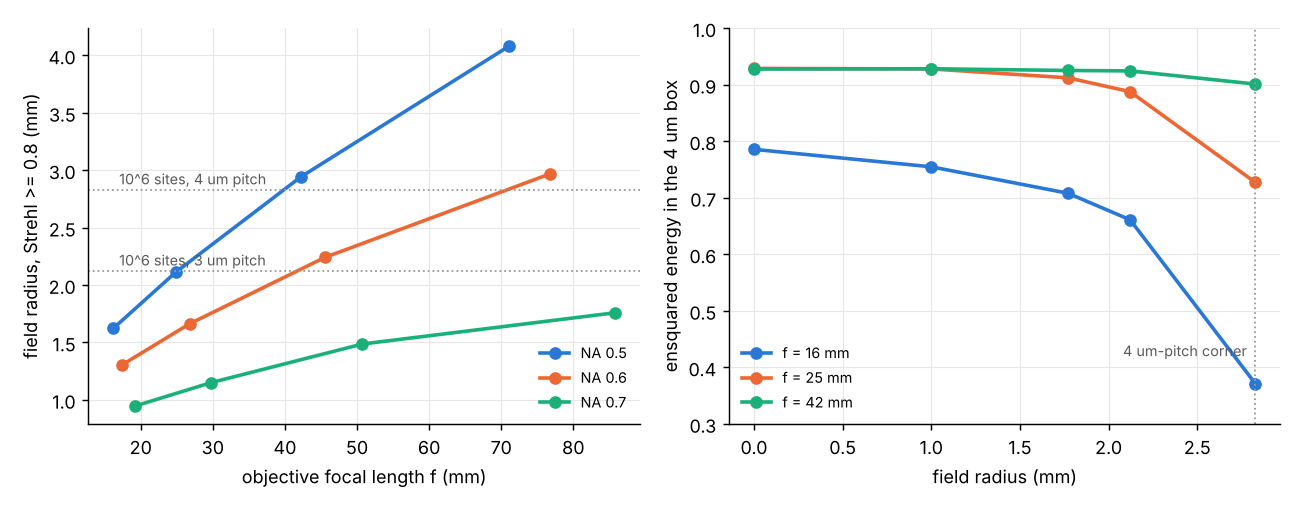
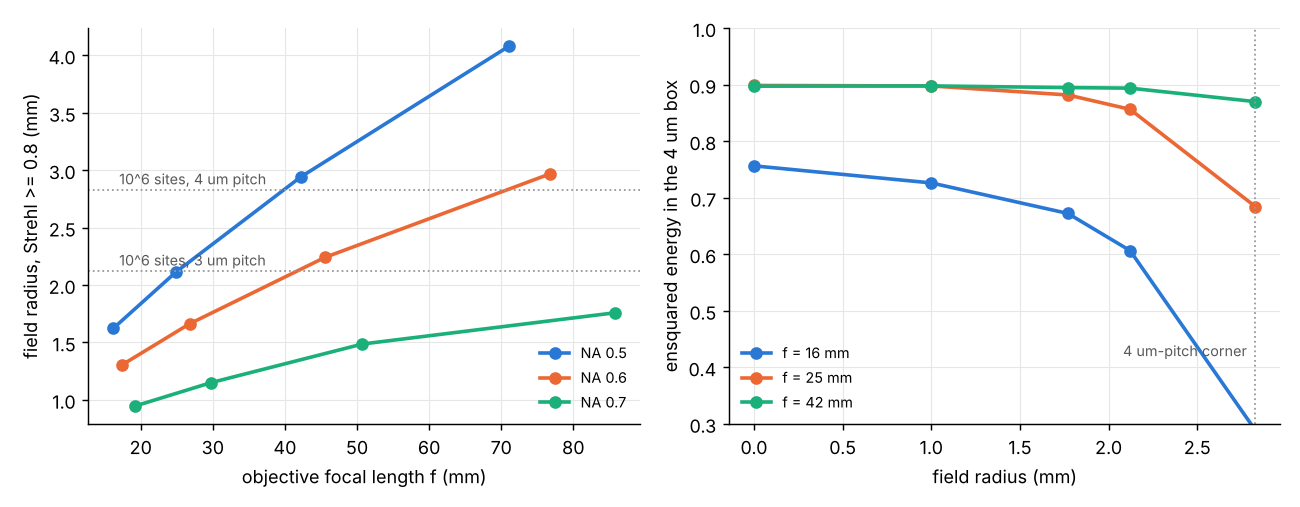
Million report: 4 um imaging table, summary and Figure 1 rerun with total-power normalisation
42 mm objective: EE >= 0.87 / <= 3.4 % over the 10^6-site field (diffraction limit of the
pupil 0.90 / 1.3 %); the earlier >= 0.90 / <= 3.6 % used window normalisation.

Claude-Session: https://claude.ai/code/session_013HRuYi94EB9cHXa1UrtoSF

Changed region(s): [[0.5538, 0.2663, 0.9846, 0.7988], [0.5538, 0.1183, 0.9846, 0.4142], [0.9538, 0.7988, 0.9846, 0.8284]]

diff --git a/docs/million_sites.md b/docs/million_sites.md
@@ -26,12 +26,12 @@ extra deflections: <= 0.15 with a 25 mm objective and 10x demagnification.
 
 (ii) Imaging. For one common focal plane with Strehl >= 0.8 out to the 4 um-pitch corner, the
 aplanatic meta-doublet needs f ~ 42 mm at NA 0.5 (42 mm plates). In wave optics it then puts
->= 0.90 of each atom's light in its 4 um box with <= 3.6 % in any neighbour, across the whole
-10^6-site array. At 3 um pitch f ~ 25 mm suffices: EE >= 0.82 and <= 4.9 % in a neighbour at
+>= 0.87 of each atom's light in its 4 um box with <= 3.4 % in any neighbour, across the whole
+10^6-site array (diffraction limit of this pupil 0.90 / 1.3 %). At 3 um pitch f ~ 25 mm suffices: EE >= 0.82 and <= 4.9 % in a neighbour at
 the 2.12 mm corner (42 mm: 0.864 / 2.5 %; diffraction limit 0.876 / 1.5 %). Higher NA costs
 field quickly: NA 0.6 needs f ~ 77 mm (92 mm plates) for the same field, and NA 0.7 does not
-reach it below 120 mm. The 16 mm doublet images to ~2.1 mm radius (66 % of the light in the
-site box) and fails at 2.83 mm (37 %).
+reach it below 120 mm. The 16 mm doublet images to ~2.1 mm radius (61 % of the light in the
+site box, with a plane fitted over 0 to 2.83 mm) and fails at 2.83 mm (29 %).
 
 (iii) One optic for 10 to 10^6 traps. A direct (pupil-plane) hologram cannot do this.
 Shrinking the beam on it reduces the NA, not the number of sites. The lenslet-array
@@ -51,7 +51,7 @@ Figure 1. Left: field radius with a minimum common-plane Strehl ratio >= 0.8 for
 aplanatic meta-objective (852.3 nm, cell stack with air gap 2.5 to 50 mm, construction to 1.6 R1)
 versus focal length, at NA 0.5, 0.6 and 0.7; the dotted lines mark the 10^6-site corners. Right:
 ensquared energy in the 4 um site box (wave optics, one common plane over 0 to 2.83 mm) for the
-16, 25 and 42 mm objectives at NA 0.5; a diffraction-limited spot gives 0.93.
+16, 25 and 42 mm objectives at NA 0.5, relative to the total PSF power; the diffraction limit of this pupil is 0.90.
 
 ## 1. Requirements
 
@@ -104,15 +104,15 @@ compute the ensquared energy (EE) in the 4 um box and the largest neighbour-box 
 from the wave-optics PSF (superposition method, Section 4b of the metalens report), in one
 common plane over the whole field (results/million/imaging_ee.json).
 
-Entries: ensquared energy in the 4 um box / largest neighbour-box fraction (ray Strehl in the common plane). A diffraction-limited NA 0.5 spot gives 0.93 / 0.014 on this grid.
+Entries: ensquared energy in the 4 um box / largest neighbour-box fraction, both relative to the total PSF power (wave_offaxis.total_focal_power), with the ray Strehl ratio in the common plane. The diffraction limit of this aplanatic pupil is 0.90 / 0.013 (a uniformly filled Airy pupil gives 0.92). (A first version normalised to the power inside the +/-1.5 pitch evaluation window, which holds only 0.94 to 0.97 of it, and quoted values 0.03 to 0.08 higher.)
 
 | Objective f | 0 mm | 1 mm | 1.77 mm | 2.121 mm | 2.828 mm |
 |---|---|---|---|---|---|
-| 16 mm (gap 2.5 mm) | 0.79 / 0.045 (S 0.17) | 0.75 / 0.063 (S 0.15) | 0.71 / 0.087 (S 0.11) | 0.66 / 0.073 (S 0.09) | 0.37 / 0.242 (S 0.08) |
-| 25 mm (gap 10 mm) | 0.93 / 0.014 (S 1.00) | 0.93 / 0.016 (S 1.00) | 0.91 / 0.030 (S 0.92) | 0.89 / 0.043 (S 0.79) | 0.73 / 0.082 (S 0.30) |
-| 42 mm (gap 25 mm) | 0.93 / 0.014 (S 0.99) | 0.93 / 0.015 (S 0.99) | 0.93 / 0.019 (S 0.98) | 0.92 / 0.021 (S 0.96) | 0.90 / 0.036 (S 0.84) |
+| 16 mm (gap 2.5 mm) | 0.76 / 0.043 (S 0.17) | 0.73 / 0.060 (S 0.15) | 0.67 / 0.083 (S 0.11) | 0.61 / 0.067 (S 0.09) | 0.29 / 0.188 (S 0.08) |
+| 25 mm (gap 10 mm) | 0.90 / 0.013 (S 1.00) | 0.90 / 0.016 (S 1.00) | 0.88 / 0.029 (S 0.92) | 0.86 / 0.042 (S 0.79) | 0.68 / 0.077 (S 0.30) |
+| 42 mm (gap 25 mm) | 0.90 / 0.013 (S 0.99) | 0.90 / 0.014 (S 0.99) | 0.90 / 0.019 (S 0.98) | 0.89 / 0.020 (S 0.96) | 0.87 / 0.034 (S 0.84) |
 
-Hence the 42 mm objective images the 10^6-site array at 4 um pitch with >= 0.90 of the light in the site box and <= 3.6 % in any neighbour, the 25 mm objective does so to 2.12 mm (0.89 / 0.043; the 3 um-pitch corner, where the box is smaller and the EE correspondingly lower) and degrades to 0.73 / 0.082 at 2.83 mm, and the 16 mm objective, whose single plane is a compromise over the whole field, keeps 0.66 / 0.073 at 2.12 mm and fails at 2.83 mm (0.37 / 0.24).
+Hence the 42 mm objective images the 10^6-site array at 4 um pitch with >= 0.87 of the light in the site box and <= 3.4 % in any neighbour (within 0.03 of the diffraction limit), the 25 mm objective does so to 2.12 mm (0.86 / 0.042) and degrades to 0.68 / 0.077 at 2.83 mm, and the 16 mm objective, whose single plane is a compromise over the whole field, keeps 0.61 / 0.067 at 2.12 mm and fails at 2.83 mm (0.29 / 0.19).
 
 3 um pitch, plane chosen for that field (results/million/imaging_ee_3um.json,
 configs/imaging_1M_3um.yaml). The 3.0 mm array (corner 2.12 mm) is evaluated with a 3 um box
